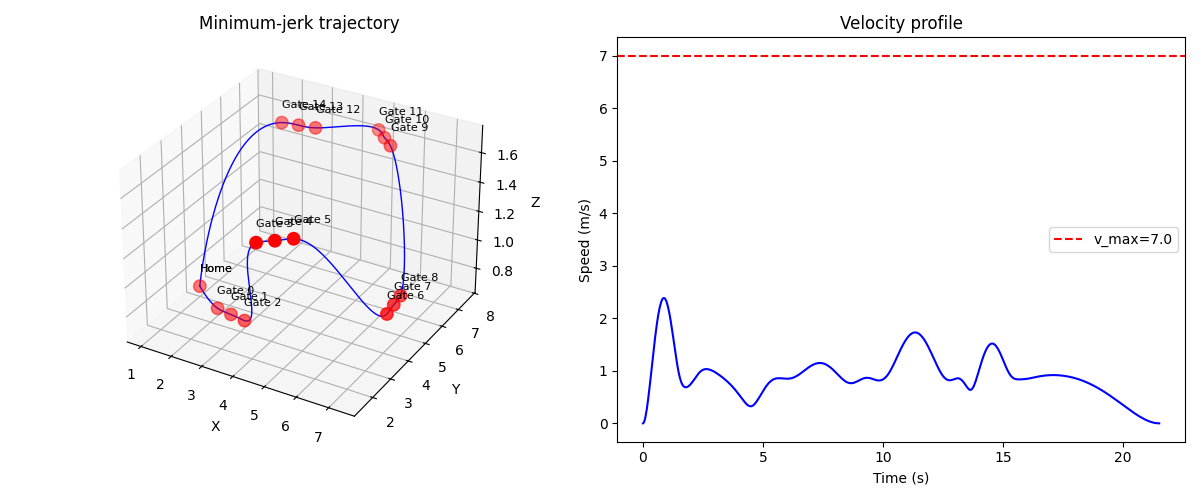
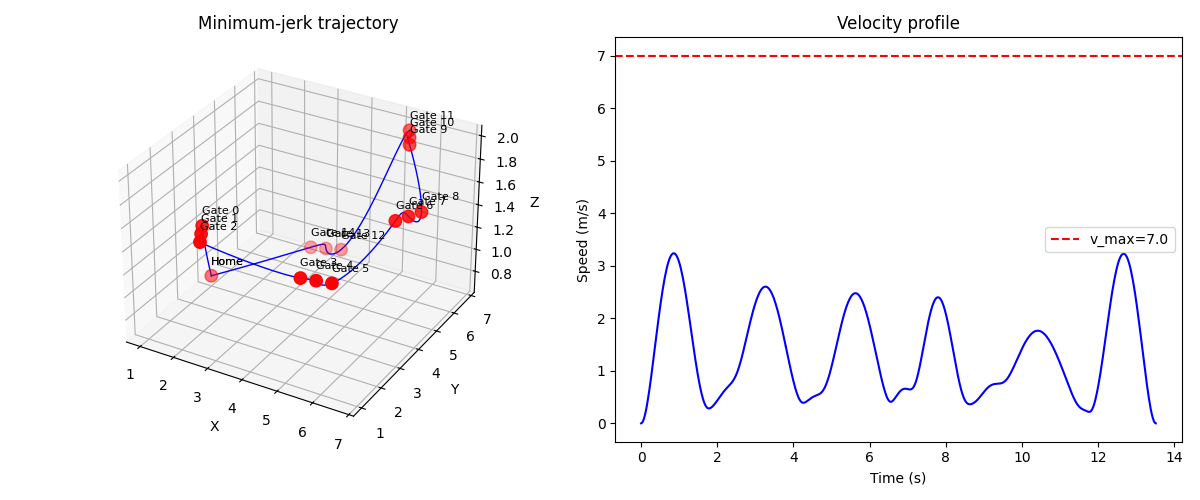
Reverted back to submission but still failing tests due to polynomial artifacts. Going to change to a different trajectory implementation - also need to tun MAX TURN PENALTY down again to 0.1 once implemented change

diff --git a/controllers/main/assignment/my_assignment.py b/controllers/main/assignment/my_assignment.py
@@ -130,7 +130,7 @@ MAX_ACCELERATION = 7.0
 TRAJ_DT = 0.02           
 
 # Tuning parameters for adaptive lookahead in trajectory execution
-DIST_NEAR = 0.4
+DIST_NEAR = 0.6   
 DIST_FAR = 2.0    
 LOOKAHEAD_MIN = 0.4 
 LOOKAHEAD_MAX = 1.8 
@@ -140,10 +140,6 @@ CURVATURE_TIME_AHEAD_1 = 0.2    # Seconds ahead to sample the first trajectory v
 CURVATURE_TIME_AHEAD_2 = 0.6    # Seconds ahead to sample the second trajectory vector
 MIN_VECTOR_NORM = 0.01          # Minimum distance (m) required to safely calculate angles
 MAX_TURN_ANGLE_RAD = np.pi / 2.0 # 90 degrees in radians; the angle at which a turn is considered 100% severe
-
-# Gate Inertia Compensation
-MODIFICATION_Z = 0.1       # Meters to artificially shift vertical targets
-MODIFICATION_LATERAL = 0.0 # Meters to artificially shift lateral (X/Y) targets
 
 class MyAssignment:
     def __init__(self, ):
@@ -399,7 +395,7 @@ class MyAssignment:
         return [LAND_POSITION[0], LAND_POSITION[1], LAND_POSITION[2], 0.0]
 
     def get_ready_to_execute_trajectory_command(self, sensor_data):
-        # 1. Get the height and yaw of the first gate center 
+        # Get to the height of the first gate center before leaving the pad to save time:
         target_z = self.gate_center_poses[0][0][2] 
         # Target yaw = angle from home position toward first gate center (straight line)
         first_gate_center = self.gate_center_poses[0][0]
@@ -412,12 +408,13 @@ class MyAssignment:
             abs((sensor_data['yaw'] - target_yaw + np.pi) % (2 * np.pi) - np.pi) < eps):
             
             # 4. Drone has arrived. Trigger the pause instead of immediately changing mode.
-            print("Mode: Ready to Execute Trajectory - Arrived at height, pausing before execution")
+            # print("Mode: Ready to Execute Trajectory - Arrived at height, pausing before execution")
             self.traj_start_time = None  
             self.current_waypoint_index = 0 # ADD THIS: Reset index for spatial tracking
             
             # I am using 1.0 second here, but feel free to adjust this pause duration
             self.mode = Mode.EXECUTE_TRAJECTORY
+            # print("Mode: Execute Trajectory")
             self.start_pause(1.0, Mode.EXECUTE_TRAJECTORY) 
 
         return [sensor_data['x_global'], sensor_data['y_global'], target_z, target_yaw]
@@ -940,42 +937,42 @@ class MyAssignment:
     def compute_trajectory(self):
         key_points = [HOME_POSITION.copy()]
         
-        # Track the previous gate's original position for inertia calculations
-        prev_center = None 
-        
-        for gate_idx in sorted(self.gate_center_poses_dict.keys()):
-            # Get original center and yaw. Use .copy() so we don't permanently alter the map!
-            original_center, gate_yaw = self.gate_center_poses_dict[gate_idx]
-            center = original_center.copy() 
-            
-            # --- START OF INERTIA MODIFICATION ---
-            if prev_center is not None:
-                # Z-Axis (Vertical) Modification
-                if center[2] < prev_center[2]:
-                    center[2] -= MODIFICATION_Z
-                elif center[2] > prev_center[2]:
-                    center[2] += MODIFICATION_Z
-            
-            # Store the UNMODIFIED center for the next gate to compare against
-            prev_center = original_center.copy() 
-            # --- END OF INERTIA MODIFICATION ---
+        gate_keys = sorted(self.gate_center_poses_dict.keys())
+        for i, gate_idx in enumerate(gate_keys):
+            center, gate_yaw = self.gate_center_poses_dict[gate_idx]
 
-            
-            # Add a waypoint before the gate to force approach at correct height
+            # --- FIX 1: Use the direction from the PREVIOUS key point to the gate
+            # rather than gate_yaw for pre/post alignment.
+            # gate_yaw can point in the wrong direction relative to the drone's
+            # approach, causing the pre/post points to be placed BEHIND the drone,
+            # which creates a U-turn and the looping artifacts.
+            if i == 0:
+                prev_point = HOME_POSITION
+            else:
+                prev_center, _ = self.gate_center_poses_dict[gate_keys[i - 1]]
+                prev_point = prev_center
+
+            approach_vec = center[:2] - np.array(prev_point[:2])
+            approach_dist = np.linalg.norm(approach_vec)
+            if approach_dist > 1e-4:
+                approach_dir = approach_vec / approach_dist
+            else:
+                approach_dir = np.array([np.cos(gate_yaw), np.sin(gate_yaw)])
+
             ALIGN_DIST = 0.4
+
             pre_gate = center.copy()
-            pre_gate[0] -= np.cos(gate_yaw) * ALIGN_DIST
-            pre_gate[1] -= np.sin(gate_yaw) * ALIGN_DIST
-            
-            # Add a waypoint after the gate to force exit at correct height  
+            pre_gate[0] -= approach_dir[0] * ALIGN_DIST
+            pre_gate[1] -= approach_dir[1] * ALIGN_DIST
+
             post_gate = center.copy()
-            post_gate[0] += np.cos(gate_yaw) * ALIGN_DIST
-            post_gate[1] += np.sin(gate_yaw) * ALIGN_DIST
-            
+            post_gate[0] += approach_dir[0] * ALIGN_DIST
+            post_gate[1] += approach_dir[1] * ALIGN_DIST
+
             key_points.append(pre_gate)
-            key_points.append(center.copy())   # Shifted gate center itself
+            key_points.append(center.copy())
             key_points.append(post_gate)
-        
+
         key_points.append(HOME_POSITION.copy())
         self.plan_polynomial_trajectory(key_points)
         return self.trajectory_waypoints
@@ -1033,7 +1030,11 @@ class MyAssignment:
             # Raise the minimum time from 0.25s to 0.4s. Giving the alignment 
             # segment slightly more time acts as a buffer, preventing the polynomial 
             # from bulging/looping after a massive drop.
-            seg_times.append(max(t_seg, 0.4))
+            dist_3d = np.linalg.norm(np.array(key_points[i+1]) - np.array(key_points[i]))
+            # Short segments (pre/post gate, ~0.4m) need proportionally more time
+            # relative to their length to avoid ringing. Scale minimum floor by distance.
+            min_time = max(0.4, dist_3d / TRAJ_SPEED * 1.5)
+            seg_times.append(max(t_seg, min_time))
 
         # Iteratively reduce times while checking dynamic limits
         for _ in range(20):  # max 20 reduction iterations
@@ -1325,45 +1326,6 @@ def get_turn_penalty(vec_in, vec_out):
         
     cos_theta = np.clip(np.dot(vec_in, vec_out) / (norm_in * norm_out), -1.0, 1.0)
     theta = np.arccos(cos_theta) 
-    MAX_TURN_PENALTY = MAX_TURN_PENALTY = 0.1
+    MAX_TURN_PENALTY = MAX_TURN_PENALTY = 0.2
     
     return (theta / np.pi) * MAX_TURN_PENALTY
-
-def apply_inertia_offsets_to_gates(gates):
-    """
-    Artificially pushes gate targets outward based on the approach vector 
-    from the previous gate to compensate for drone inertia at high speeds.
-    """
-    if len(gates) == 0:
-        return []
-        
-    # Store the modified gates, keeping the first gate exactly as it is
-    modified_gates = [np.array(gates[0], dtype=float)]
-    
-    for i in range(1, len(gates)):
-        prev_gate = gates[i-1]
-        curr_gate = np.array(gates[i], dtype=float)
-        
-        # --- Z-Axis (Vertical) Modification ---
-        # If the current gate is shorter than the previous, push it even lower.
-        # If it's taller, push it even higher.
-        if curr_gate[2] < prev_gate[2]:
-            curr_gate[2] -= MODIFICATION_Z
-        elif curr_gate[2] > prev_gate[2]:
-            curr_gate[2] += MODIFICATION_Z
-            
-        # --- X-Axis (Lateral) Modification ---
-        if curr_gate[0] < prev_gate[0]:
-            curr_gate[0] -= MODIFICATION_LATERAL
-        elif curr_gate[0] > prev_gate[0]:
-            curr_gate[0] += MODIFICATION_LATERAL
-            
-        # --- Y-Axis (Lateral) Modification ---
-        if curr_gate[1] < prev_gate[1]:
-            curr_gate[1] -= MODIFICATION_LATERAL
-        elif curr_gate[1] > prev_gate[1]:
-            curr_gate[1] += MODIFICATION_LATERAL
-            
-        modified_gates.append(curr_gate)
-        
-    return modified_gates

diff --git a/controllers/main/main.py b/controllers/main/main.py
@@ -20,9 +20,9 @@ rand_env = True                # Randomise the environment
 
 # 1. Let Python generate a random integer for the seed
 # (Before we lock it, Python uses your computer's unpredictable system time)
-my_seed = random.randint(0, 9999999)
-# my_seed = 1148236
-file_name = f"data_TEST11_Trajectory6_FasAugmentedGatest.txt"
+# my_seed = random.randint(0, 9999999)
+my_seed = 1148236
+file_name = f"data_TEST12_Trajectory7_Fast.txt"
 
 # --- REPLAY MODE ---
 # If your drone crashes and you need to replay the exact same environment,
